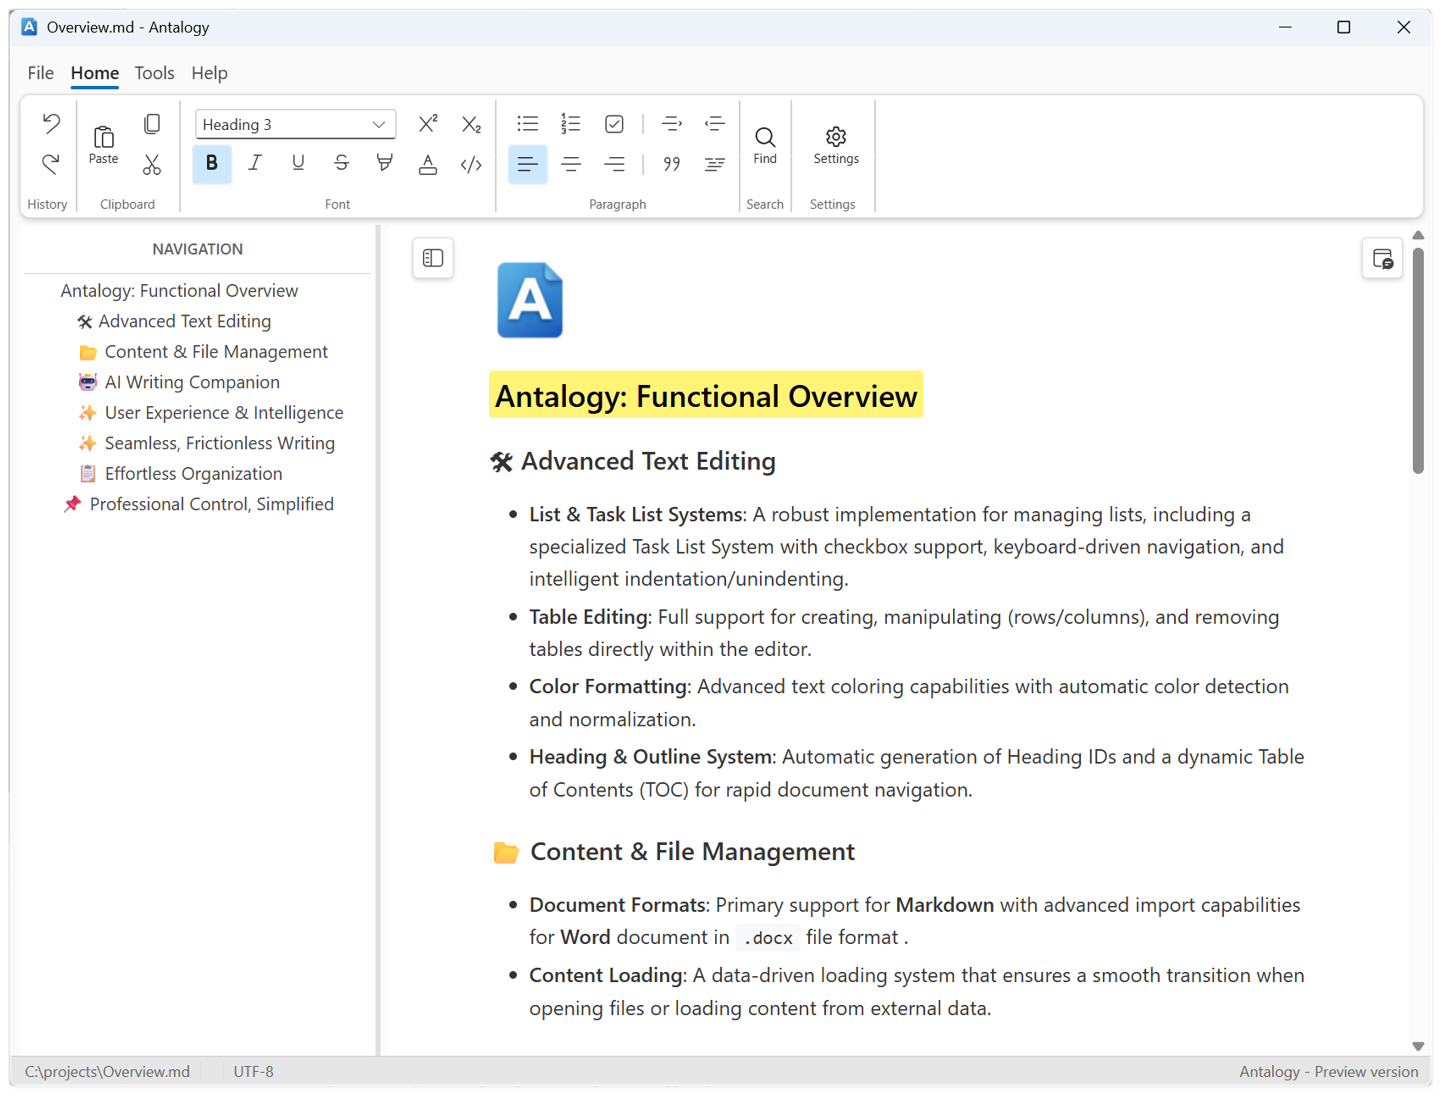
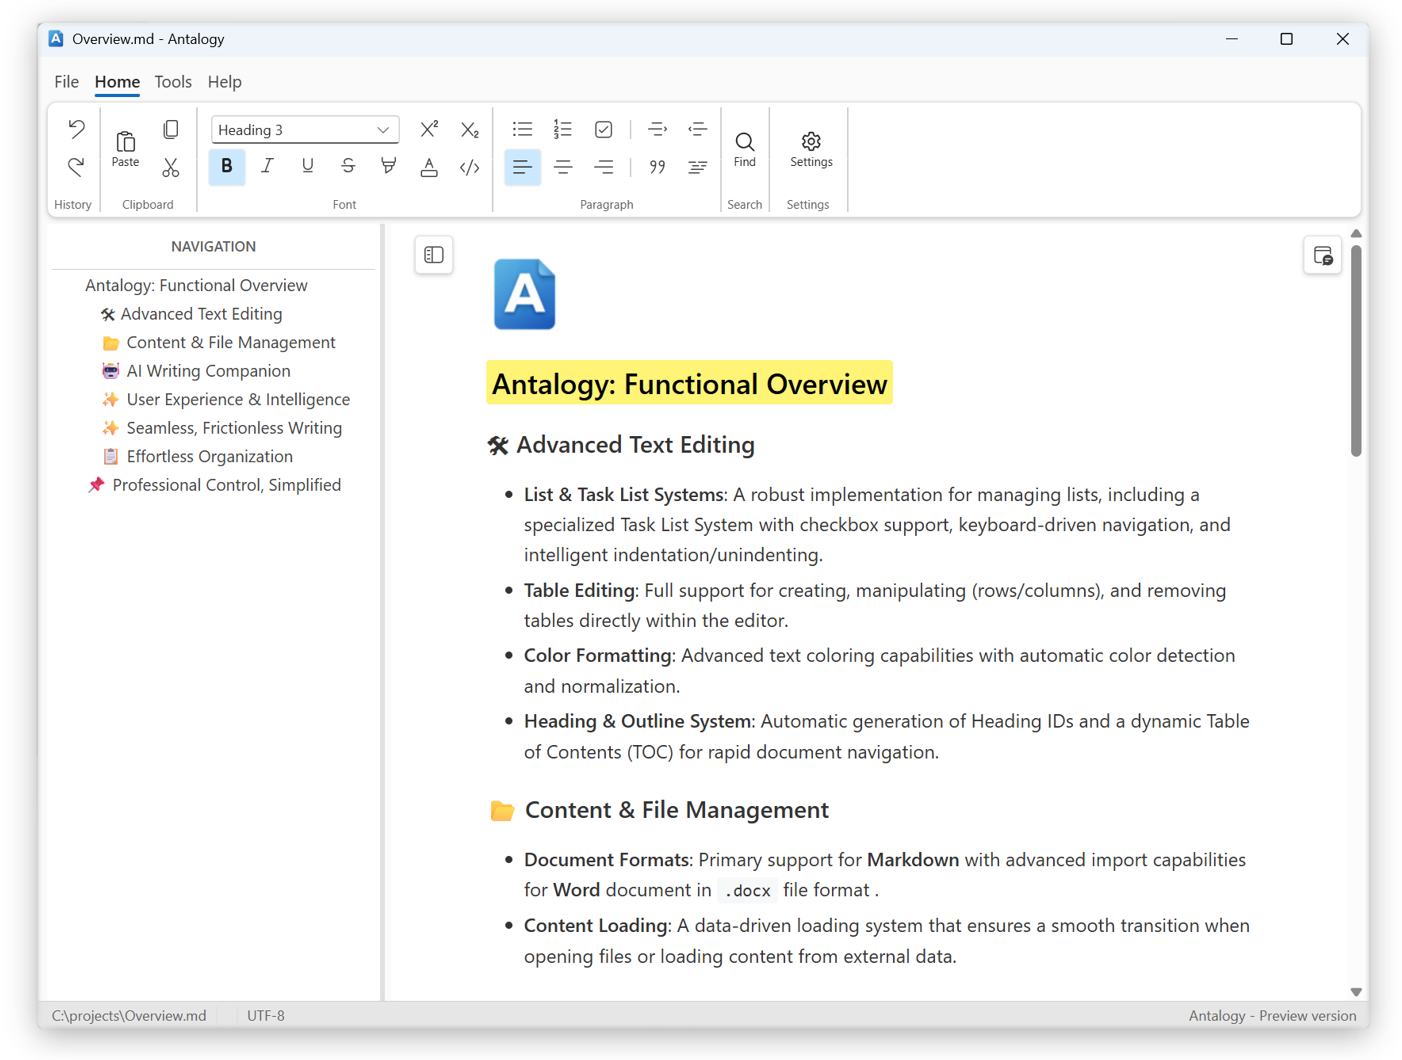
updated screens

Changed region(s): [[0.0, 0.0, 0.9815, 0.9962], [0.9201, 0.0, 0.9508, 0.0311]]

diff --git a/index.html b/index.html
@@ -285,30 +285,26 @@ td.gain{color:var(--btn);font-weight:600}
         <h3 class="typ-feature band-head">Word-like editor. <span class="dim">For&nbsp;Markdown.</span></h3>
         <ul class="checks">
           <li>Rich text formatting, including lists and tables.</li>
+		  <li>Diagrams for data visualization.</li>
           <li>Built-in navigation and search.</li>
           <li>No document format lock-in.</li>
           <li>Zero telemetry.</li>
           <li>Available on Windows and macOS.</li>
         </ul>
       </div>
-    </div>
-    <figure class="shot-wrap reveal">
-      <img src="screen3.png" width="1684" height="1275" loading="lazy" decoding="async"
-           alt="Antalogy editor window: a Word-style ribbon with font and paragraph controls, a navigation outline of document headings on the left, and a formatted Markdown document in the main pane.">
-      <figcaption class="shot-caption">A familiar ribbon and outline — with a plain .md file underneath.</figcaption>
-    </figure>
+    </div>	
   </section>
   
-  
 
+  
   <!-- ============ benefits: feature 2 ============ -->
 
     <figure class="shot-inline reveal" style="--shot-w:246px">
       <img src="word2antalogy.png" width="246" height="94" align="center" loading="lazy" decoding="async"
            alt="Antalogy converts .docx to .md in one-click.">
 	</figure> 
+	
   <section class="band">
-
     <div class="section-content">
  	
       <div class="feature reveal">	  		   
@@ -321,12 +317,21 @@ td.gain{color:var(--btn);font-weight:600}
         </ul>
       </div>
     </div>
-  
+     <figure class="shot-wrap reveal">
+      <img src="screen3.png" width="1684" height="1275" loading="lazy" decoding="async"
+           alt="Antalogy editor window: a Word-style ribbon with font and paragraph controls, a navigation outline of document headings on the left, and a formatted Markdown document in the main pane.">
+      <figcaption class="shot-caption">A familiar ribbon and outline — with a plain .md file underneath.</figcaption>
+    </figure> 
     <figure class="shot-wrap reveal">
       <img src="screen4.png" width="1684" height="1275" loading="lazy" decoding="async"
            alt="Antalogy showing a table imported from a Word document with its structure preserved, and the integrated AI Assistant chat panel open on the right.">
       <figcaption align = "center" class="shot-caption">An imported document, table intact — with the AI Assistant open alongside.</figcaption>
     </figure>  
+      <figure class="shot-wrap reveal" >
+      <img src="screen5.png" width="1745" loading="lazy" decoding="async"
+           alt="Diagrams for data visualization.">
+      <figcaption class="shot-caption">Advanced diagrams support based on Mermaid - the same code language as AI.</figcaption>
+    </figure>	
   </section>
 
   <!-- ============ benefits: feature 3 (AI) ============ -->
